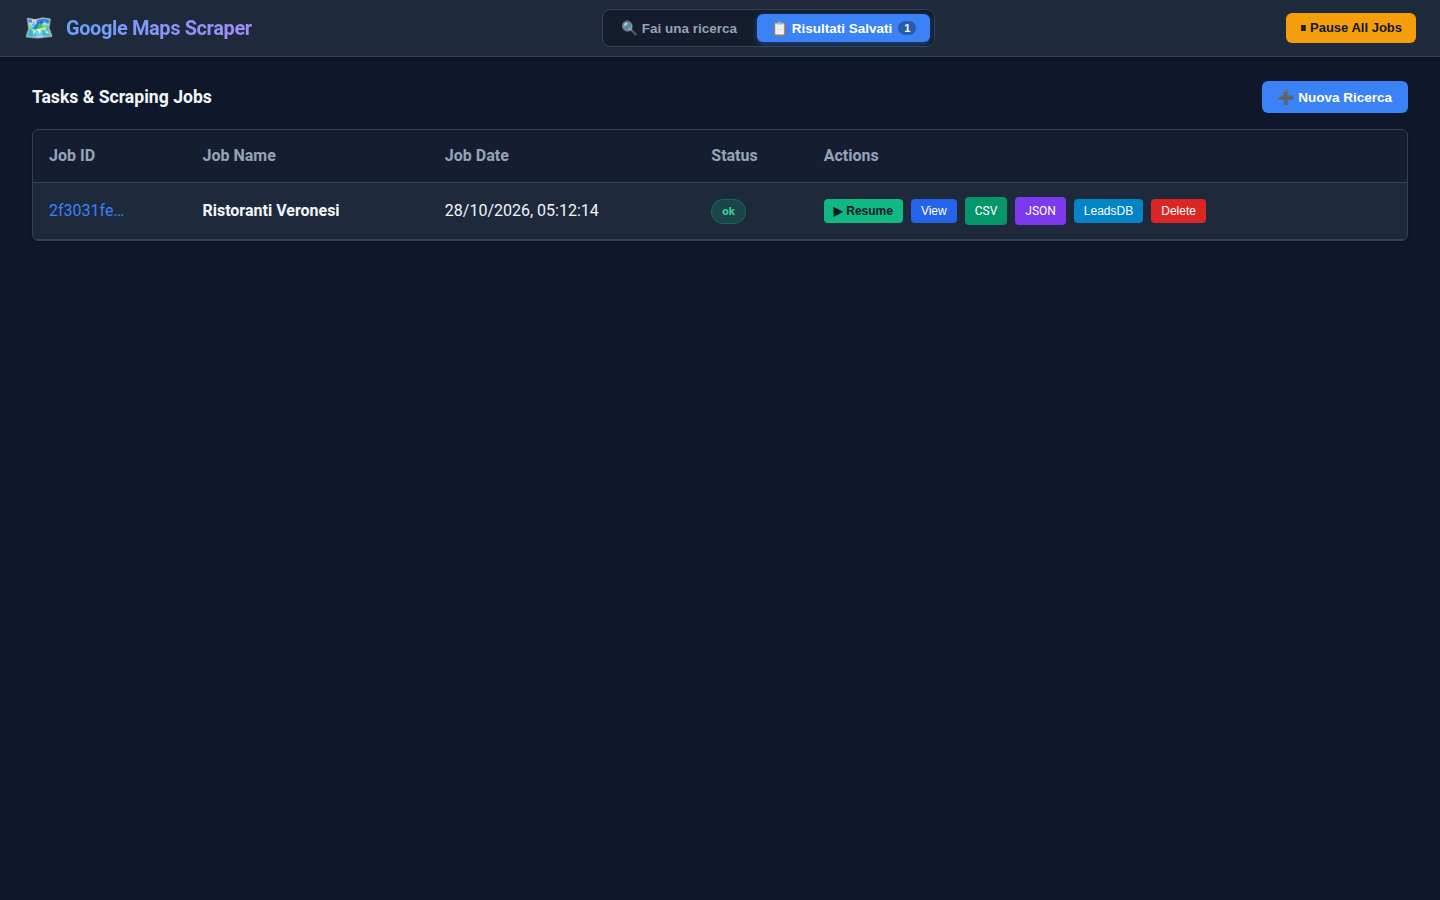
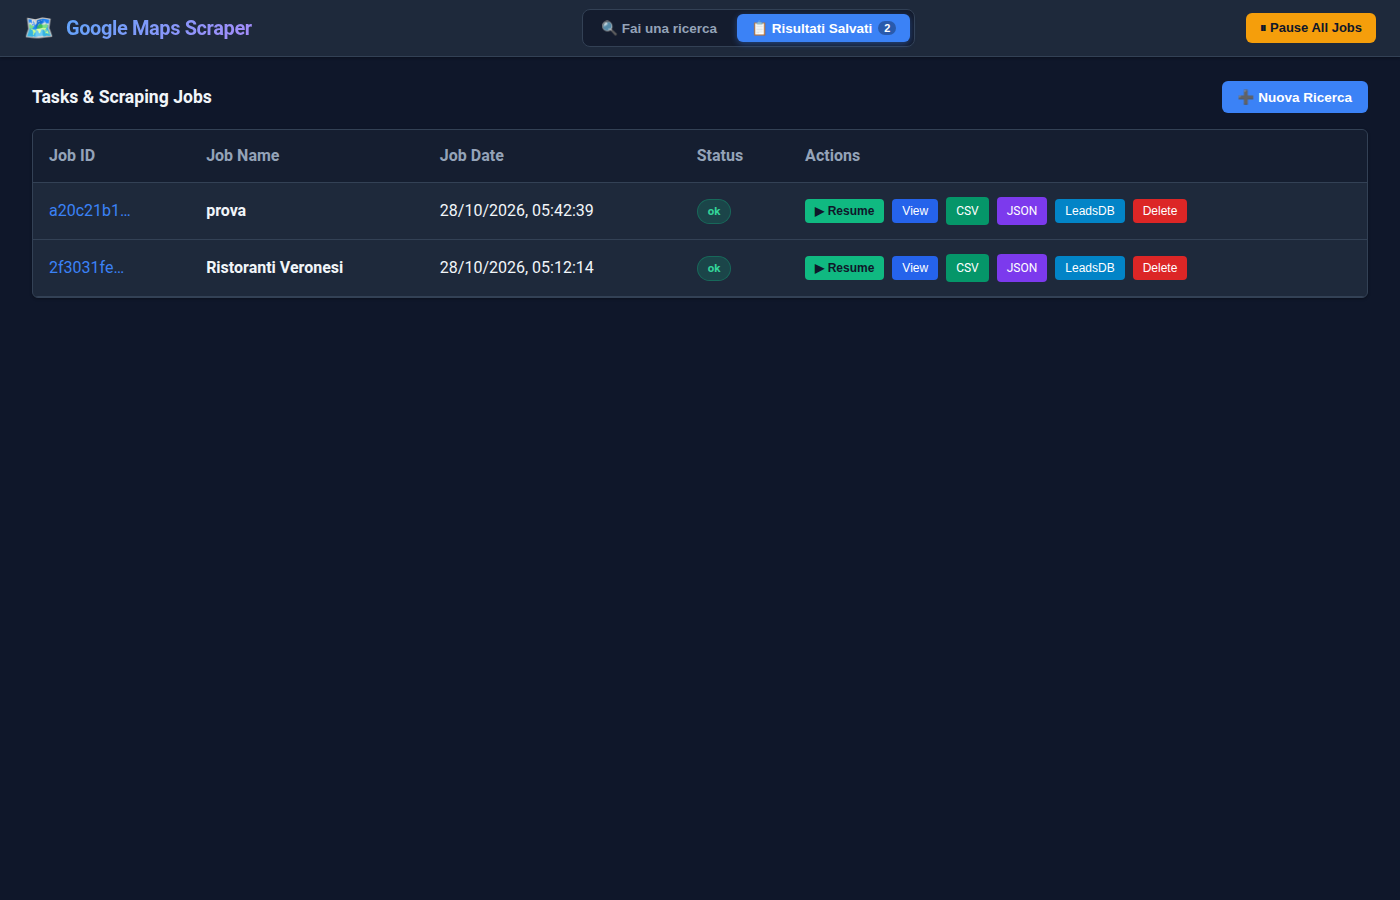
fix(ui): fix results map view and Leaflet marker clustering

diff --git a/app.py b/app.py
@@ -177,10 +177,8 @@ HTML_TEMPLATE = """<!DOCTYPE html>
     <meta name="viewport" content="width=device-width, initial-scale=1.0">
     <title>Google Maps Scraper</title>
     <link rel="stylesheet" href="https://cdnjs.cloudflare.com/ajax/libs/leaflet/1.9.4/leaflet.min.css" />
-    <link rel="stylesheet" href="https://unpkg.com/leaflet.markercluster@1.5.3/dist/MarkerCluster.css" />
-    <link rel="stylesheet" href="https://unpkg.com/leaflet.markercluster@1.5.3/dist/MarkerCluster.Default.css" />
-    <script src="https://cdnjs.cloudflare.com/ajax/libs/leaflet/1.9.4/leaflet.min.js"></script>
-    <script src="https://unpkg.com/leaflet.markercluster@1.5.3/dist/leaflet.markercluster.js"></script>
+    <link rel="stylesheet" href="https://cdnjs.cloudflare.com/ajax/libs/leaflet.markercluster/1.5.3/MarkerCluster.css" />
+    <link rel="stylesheet" href="https://cdnjs.cloudflare.com/ajax/libs/leaflet.markercluster/1.5.3/MarkerCluster.Default.css" />
     <style>
 :root {
     --color-background: #0f172a;
@@ -1286,6 +1284,7 @@ body:not(.pro-mode-active) .pro-field {
     <div id="map-modal-container"></div>
 
     <script src="https://cdnjs.cloudflare.com/ajax/libs/leaflet/1.9.4/leaflet.min.js"></script>
+    <script src="https://cdnjs.cloudflare.com/ajax/libs/leaflet.markercluster/1.5.3/leaflet.markercluster.js"></script>
     <script>
     // ---- Pause / Resume All Jobs Engine Control ----
     let isEnginePaused = false;
@@ -1304,16 +1303,13 @@ body:not(.pro-mode-active) .pro-field {
         isEnginePaused = paused;
         const badge = document.getElementById('engine-status-badge');
         const btn = document.getElementById('engine-toggle-btn');
-        if (paused) {
-            badge.className = 'badge-engine badge-engine-paused';
-            badge.textContent = 'Engine Paused';
-            btn.className = 'btn-engine btn-engine-resume';
-            btn.innerHTML = '▶ Resume All Jobs';
-        } else {
-            badge.className = 'badge-engine badge-engine-running';
-            badge.textContent = 'Engine Active';
-            btn.className = 'btn-engine btn-engine-pause';
-            btn.innerHTML = '⏸ Pause All Jobs';
+        if (badge) {
+            badge.className = paused ? 'badge-engine badge-engine-paused' : 'badge-engine badge-engine-running';
+            badge.textContent = paused ? 'Engine Paused' : 'Engine Active';
+        }
+        if (btn) {
+            btn.className = paused ? 'btn-engine btn-engine-resume' : 'btn-engine btn-engine-pause';
+            btn.innerHTML = paused ? '▶ Resume All Jobs' : '⏸ Pause All Jobs';
         }
     }
 

diff --git a/README.md b/README.md
@@ -10,15 +10,15 @@ Consente di raccogliere lead, dettagli aziendali, contatti (email, numeri di tel
 
 ### 1. Nuova Ricerca & Mappa Griglia Interattiva
 Modalità Pro attiva di default con tutte le opzioni avanzate espanse, stima dinamica della superficie coperta in $km^2$ in base allo Zoom e visualizzazione del reticolo delle celle della Bounding Box.
-![Ricerca e Mappa Griglia](docs/screenshots/01_search_pro_grid.png)
+![Ricerca e Mappa Griglia](docs/screenshots/01.png)
 
 ### 2. Risultati e Monitoraggio Job
 Tabella con stato in tempo reale, pulsanti di controllo (**Resume / Pause sul medesimo Job ID senza duplicati**) ed esportazione diretta.
-![Tabella Risultati](docs/screenshots/02_results_jobs_table.png)
+![Tabella Risultati](docs/screenshots/02.png)
 
 ### 3. Modale Mappa Interattiva (Zero Lag con Clustering)
 Visualizzazione fluida a 60fps con rendering accelerato su Canvas (`Leaflet.markercluster` + GPU Canvas) capace di gestire oltre 5.000–10.000 punti senza freeze del browser.
-![Mappa Interattiva Risultati](docs/screenshots/03_interactive_map_modal.png)
+![Mappa Interattiva Risultati](docs/screenshots/03.png)
 
 ---
 
